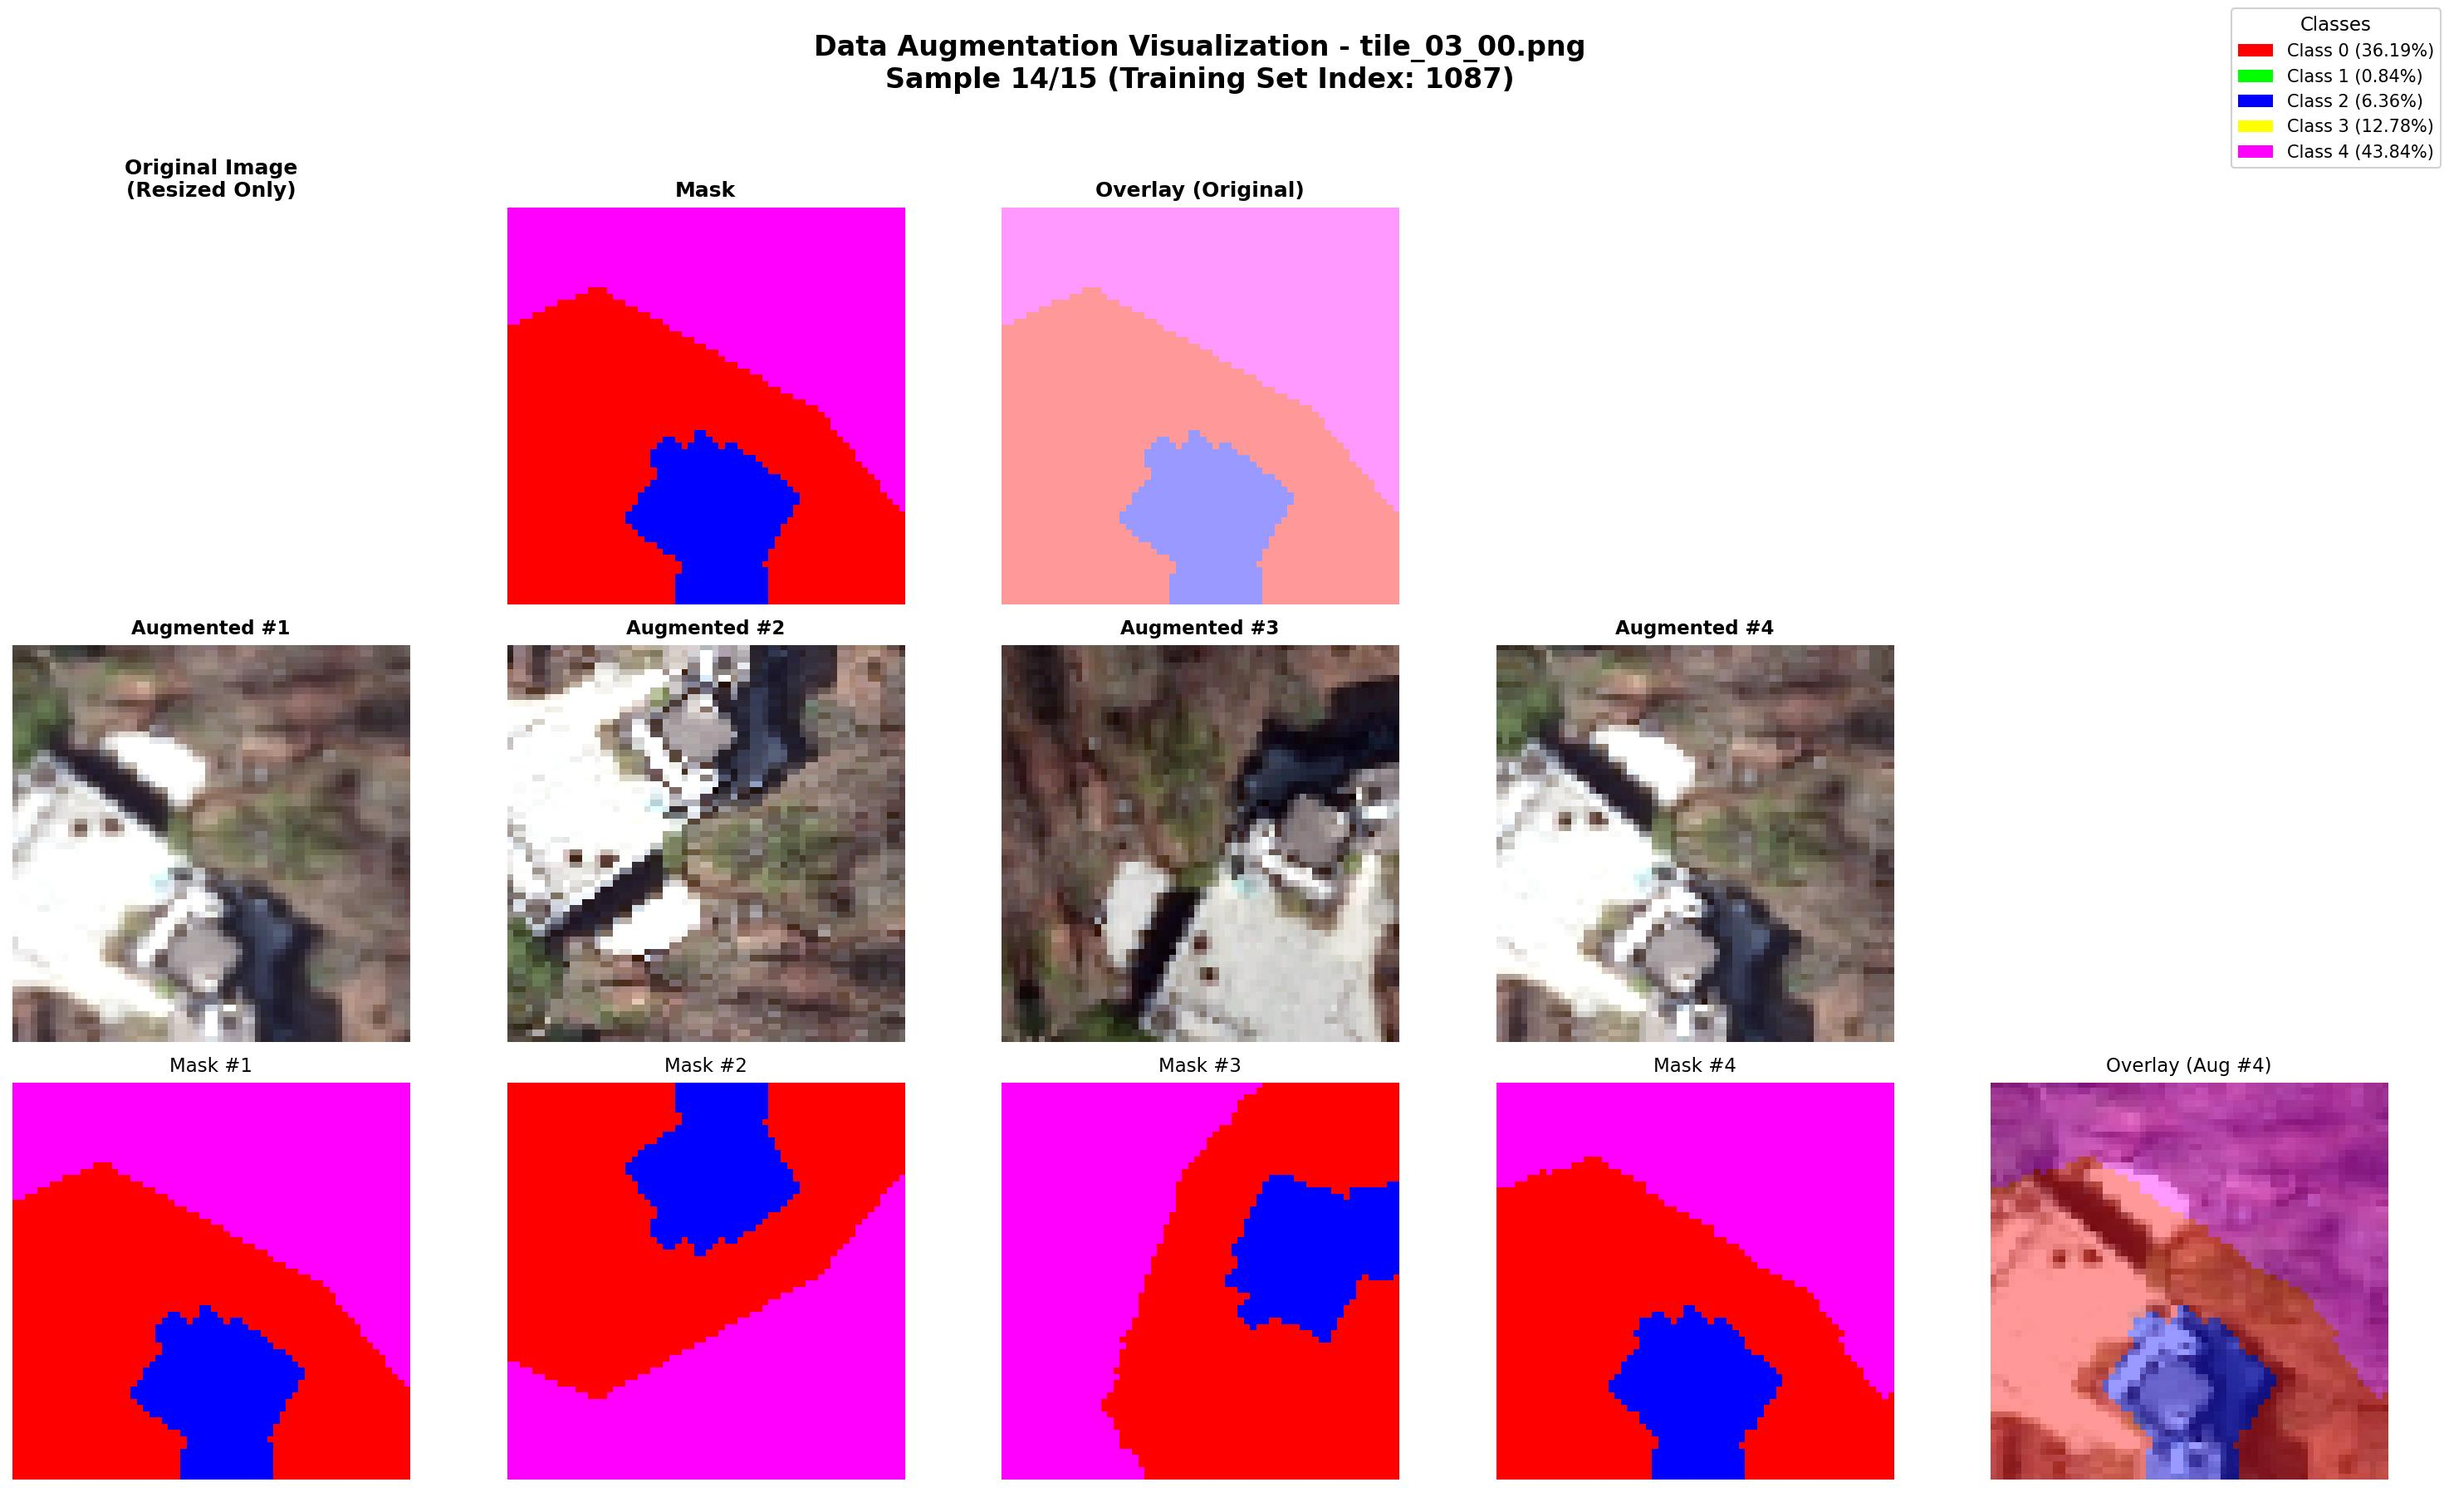
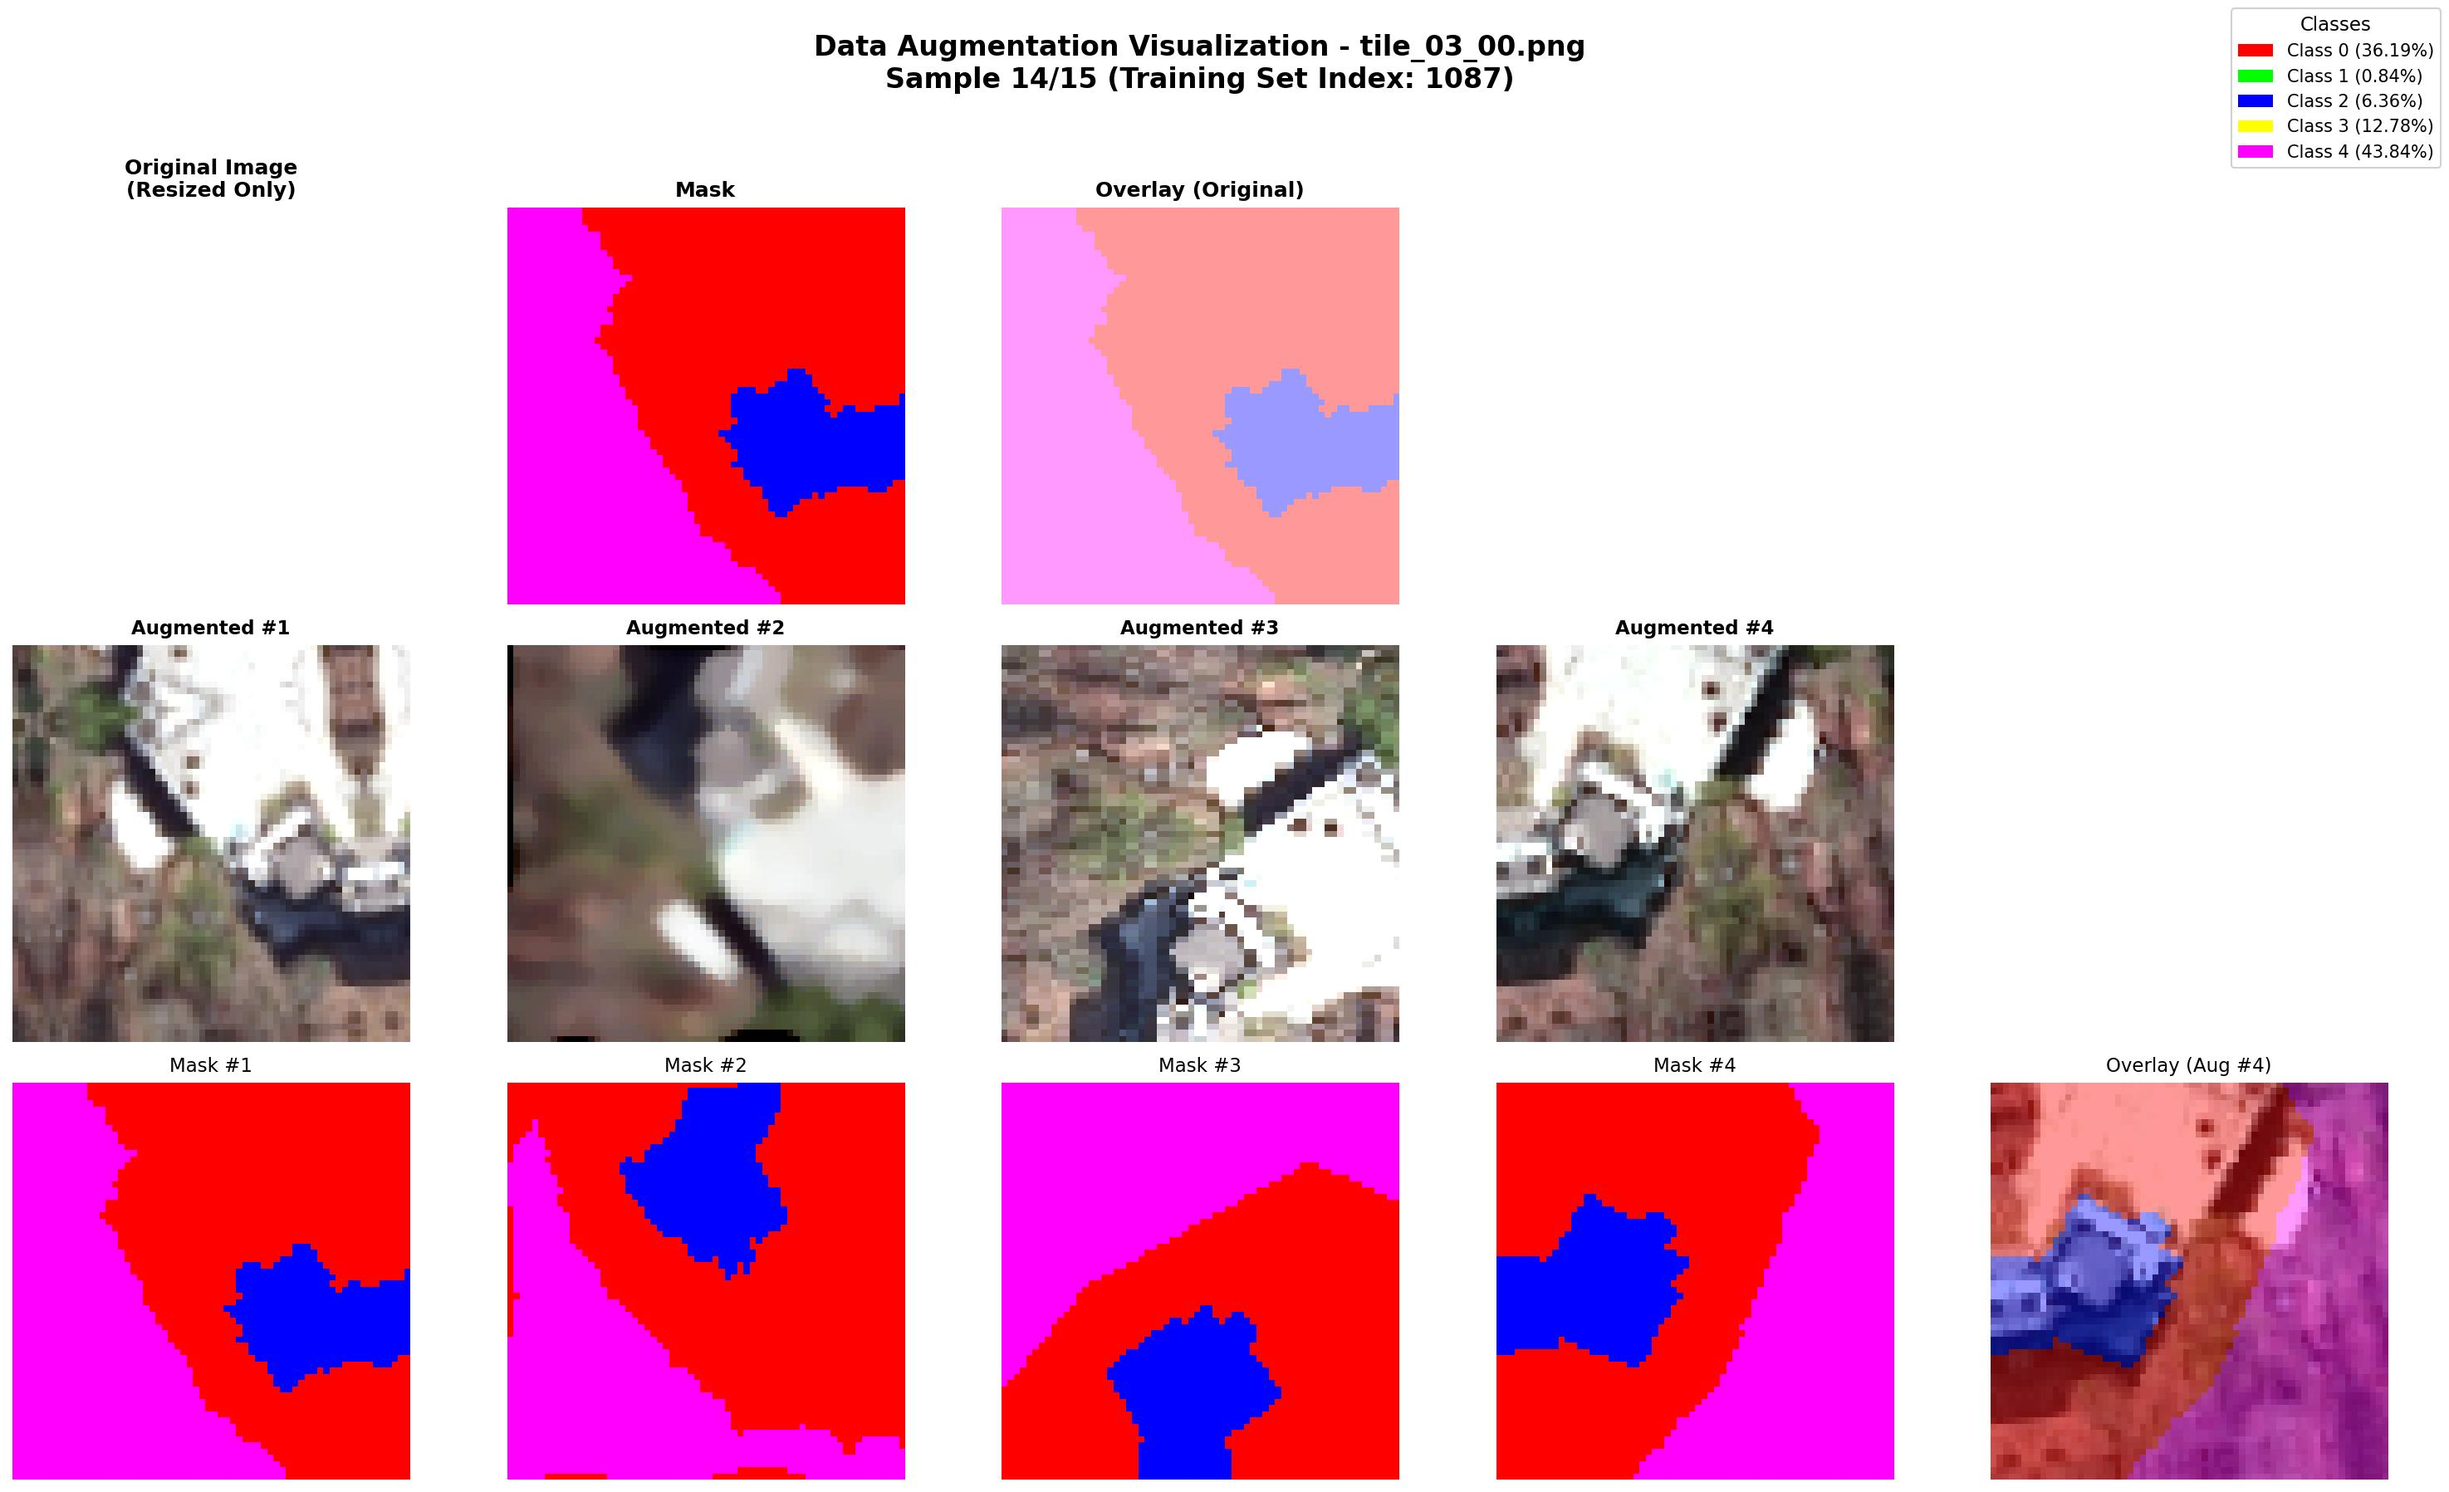
Change params

diff --git a/Dataset/dataLoader.py b/Dataset/dataLoader.py
@@ -95,74 +95,62 @@ def getTransforms_train(use_aug):
             alb.pytorch.transforms.ToTensorV2()
         ])
 
-    # ENHANCED AUGMENTATION - Équilibre entre robustesse et stabilité
+    # OPTIMIZED AUGMENTATION - Focus couleurs + géométrie
     return alb.Compose([
         # 1. RESIZE FIRST
         alb.Resize(resize_h, resize_w),
         
-        # 2. GEOMETRIC AUGMENTATIONS (focus frontières + petits objets)
+        # 2. GEOMETRIC AUGMENTATIONS
         alb.HorizontalFlip(p=0.5),
         alb.VerticalFlip(p=0.5),
         alb.RandomRotate90(p=0.5),
         
         alb.Rotate(
-            limit=20,  # Augmenté pour plus de variabilité
+            limit=25,  # Augmenté de 20→25
             border_mode=cv2.BORDER_REFLECT_101,
-            p=0.4
+            p=0.5  # Augmenté de 0.4→0.5
         ),
         
         alb.ShiftScaleRotate(
-            shift_limit=0.1,
-            scale_limit=0.15,  # Légèrement augmenté (zoom in/out)
-            rotate_limit=15,
+            shift_limit=0.12,  # Augmenté de 0.1→0.12
+            scale_limit=0.2,   # Augmenté de 0.15→0.2 (plus de zoom)
+            rotate_limit=20,   # Augmenté de 15→20
             border_mode=cv2.BORDER_REFLECT_101,
+            p=0.5  # Augmenté de 0.4→0.5
+        ),
+        
+        # 3. ELASTIC TRANSFORM (aide frontières)
+        alb.ElasticTransform(
+            alpha=60,  # Augmenté de 50→60
+            sigma=6,   # Augmenté de 5→6
+            p=0.25     # Augmenté de 0.2→0.25
+        ),
+        
+        # 4. COLOR AUGMENTATIONS (FOCUS PRINCIPAL)
+        alb.ColorJitter(
+            brightness=0.3,   # Augmenté de 0.2→0.3
+            contrast=0.3,     # Augmenté de 0.2→0.3
+            saturation=0.25,  # Augmenté de 0.15→0.25
+            hue=0.08,         # Augmenté de 0.05→0.08
+            p=0.6             # Augmenté de 0.5→0.6
+        ),
+        
+        # 5. HUE SATURATION VALUE (complémentaire)
+        alb.HueSaturationValue(
+            hue_shift_limit=15,   # Changements teinte
+            sat_shift_limit=25,   # Changements saturation
+            val_shift_limit=15,   # Changements luminosité
             p=0.4
         ),
         
-        # 3. ADVANCED GEOMETRIC (aide petits objets comme Class 1)
-        alb.ElasticTransform(
-            alpha=50,
-            sigma=5,
-            p=0.2
+        # 6. RANDOM BRIGHTNESS CONTRAST (focus luminosité)
+        alb.RandomBrightnessContrast(
+            brightness_limit=0.25,
+            contrast_limit=0.25,
+            p=0.4
         ),
         
-        # 4. COLOR AUGMENTATIONS (robustesse conditions lumière)
-        alb.ColorJitter(
-            brightness=0.2,
-            contrast=0.2,
-            saturation=0.15,
-            hue=0.05,
-            p=0.5
-        ),
-        
-        # 5. NOISE + BLUR (robustesse qualité image)
-        alb.OneOf([
-            alb.GaussNoise(var_limit=(10.0, 30.0), p=1.0),
-            alb.GaussianBlur(blur_limit=(3, 7), p=1.0),
-            alb.MedianBlur(blur_limit=5, p=1.0),
-        ], p=0.3),
-        
-        # 6. RANDOM SHADOW (simule occlusions)
-        alb.RandomShadow(
-            shadow_roi=(0, 0.5, 1, 1),
-            num_shadows_limit=(1, 2),
-            shadow_dimension=5,
-            p=0.15
-        ),
-        
-        # 7. COARSE DROPOUT (simule occlusions/missing data)
-        alb.CoarseDropout(
-            max_holes=4,
-            max_height=8,
-            max_width=8,
-            min_holes=1,
-            min_height=4,
-            min_width=4,
-            fill_value=0,
-            p=0.2
-        ),
-        
-        # 8. NORMALIZE & CONVERT TO TENSOR
+        # 7. NORMALIZE & CONVERT TO TENSOR
         alb.Normalize(mean=mean, std=std),
         alb.pytorch.transforms.ToTensorV2(),
     ])
